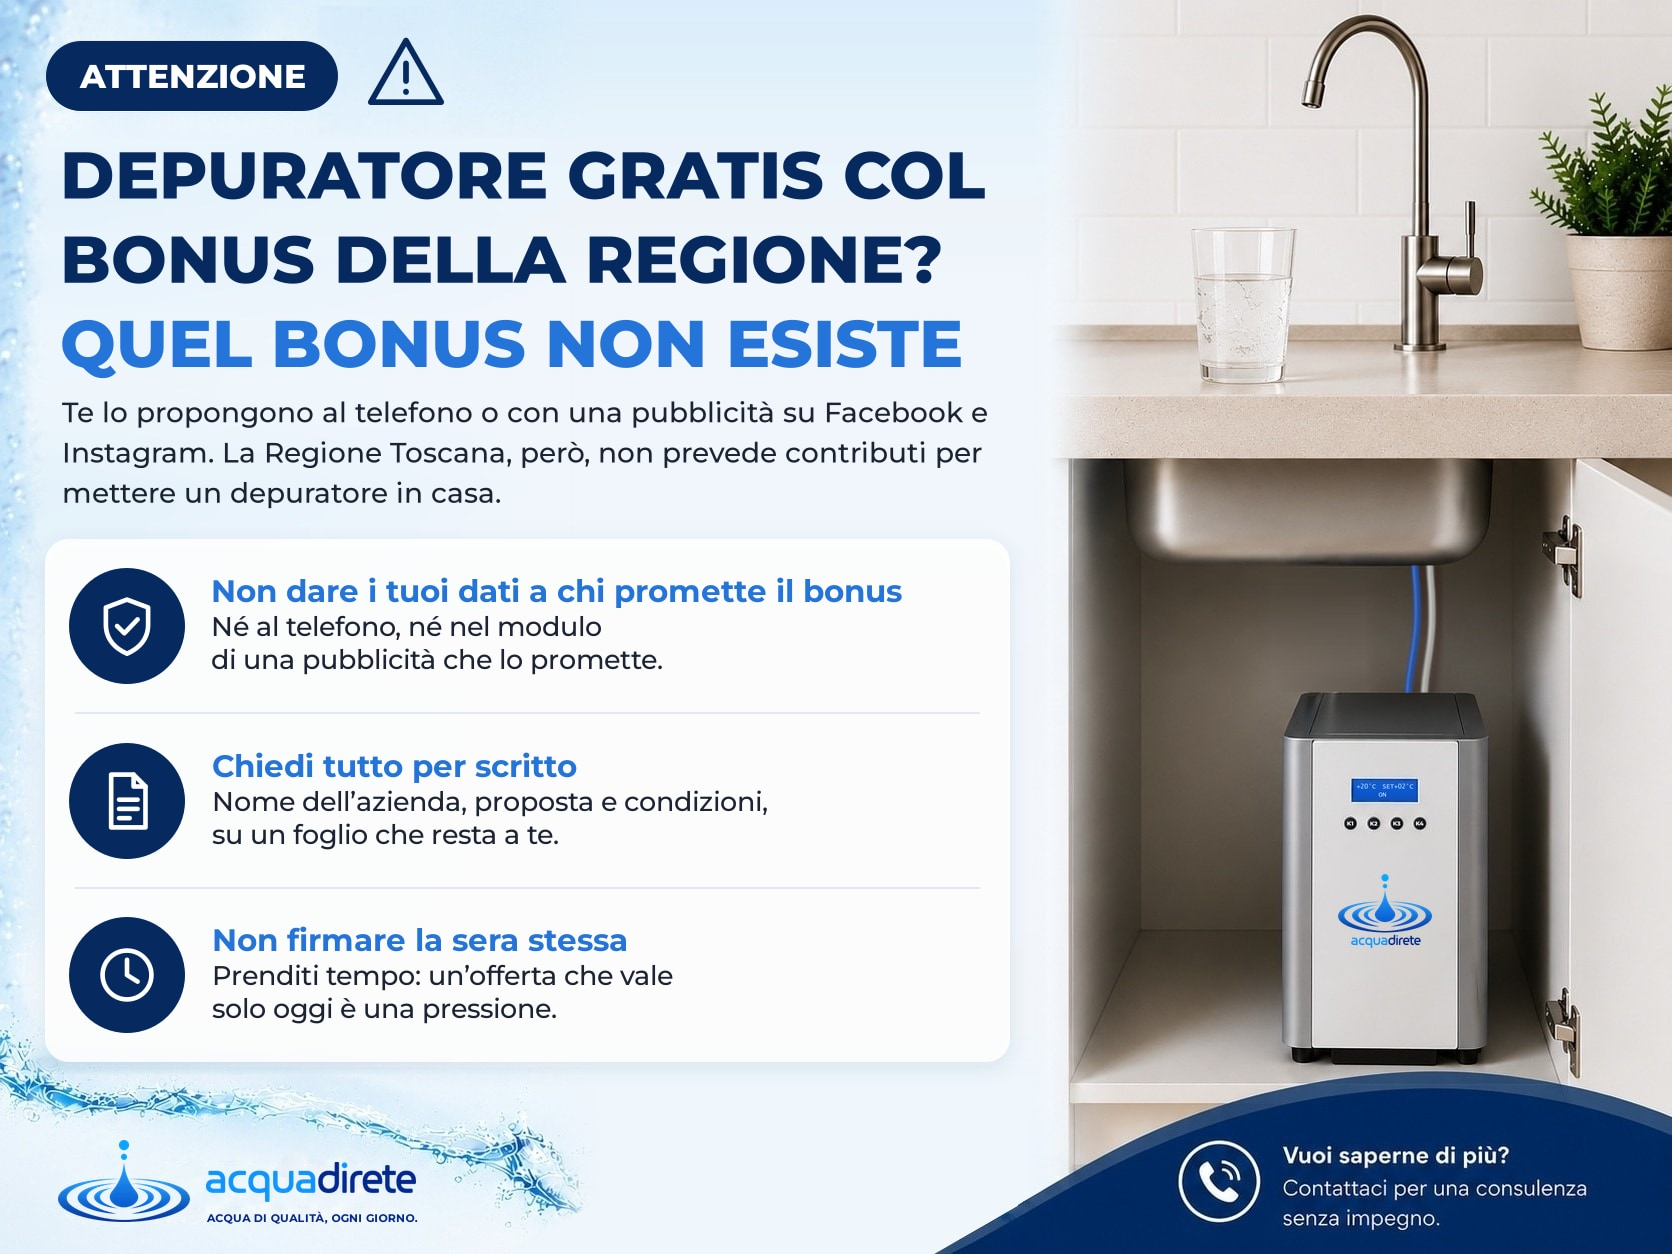
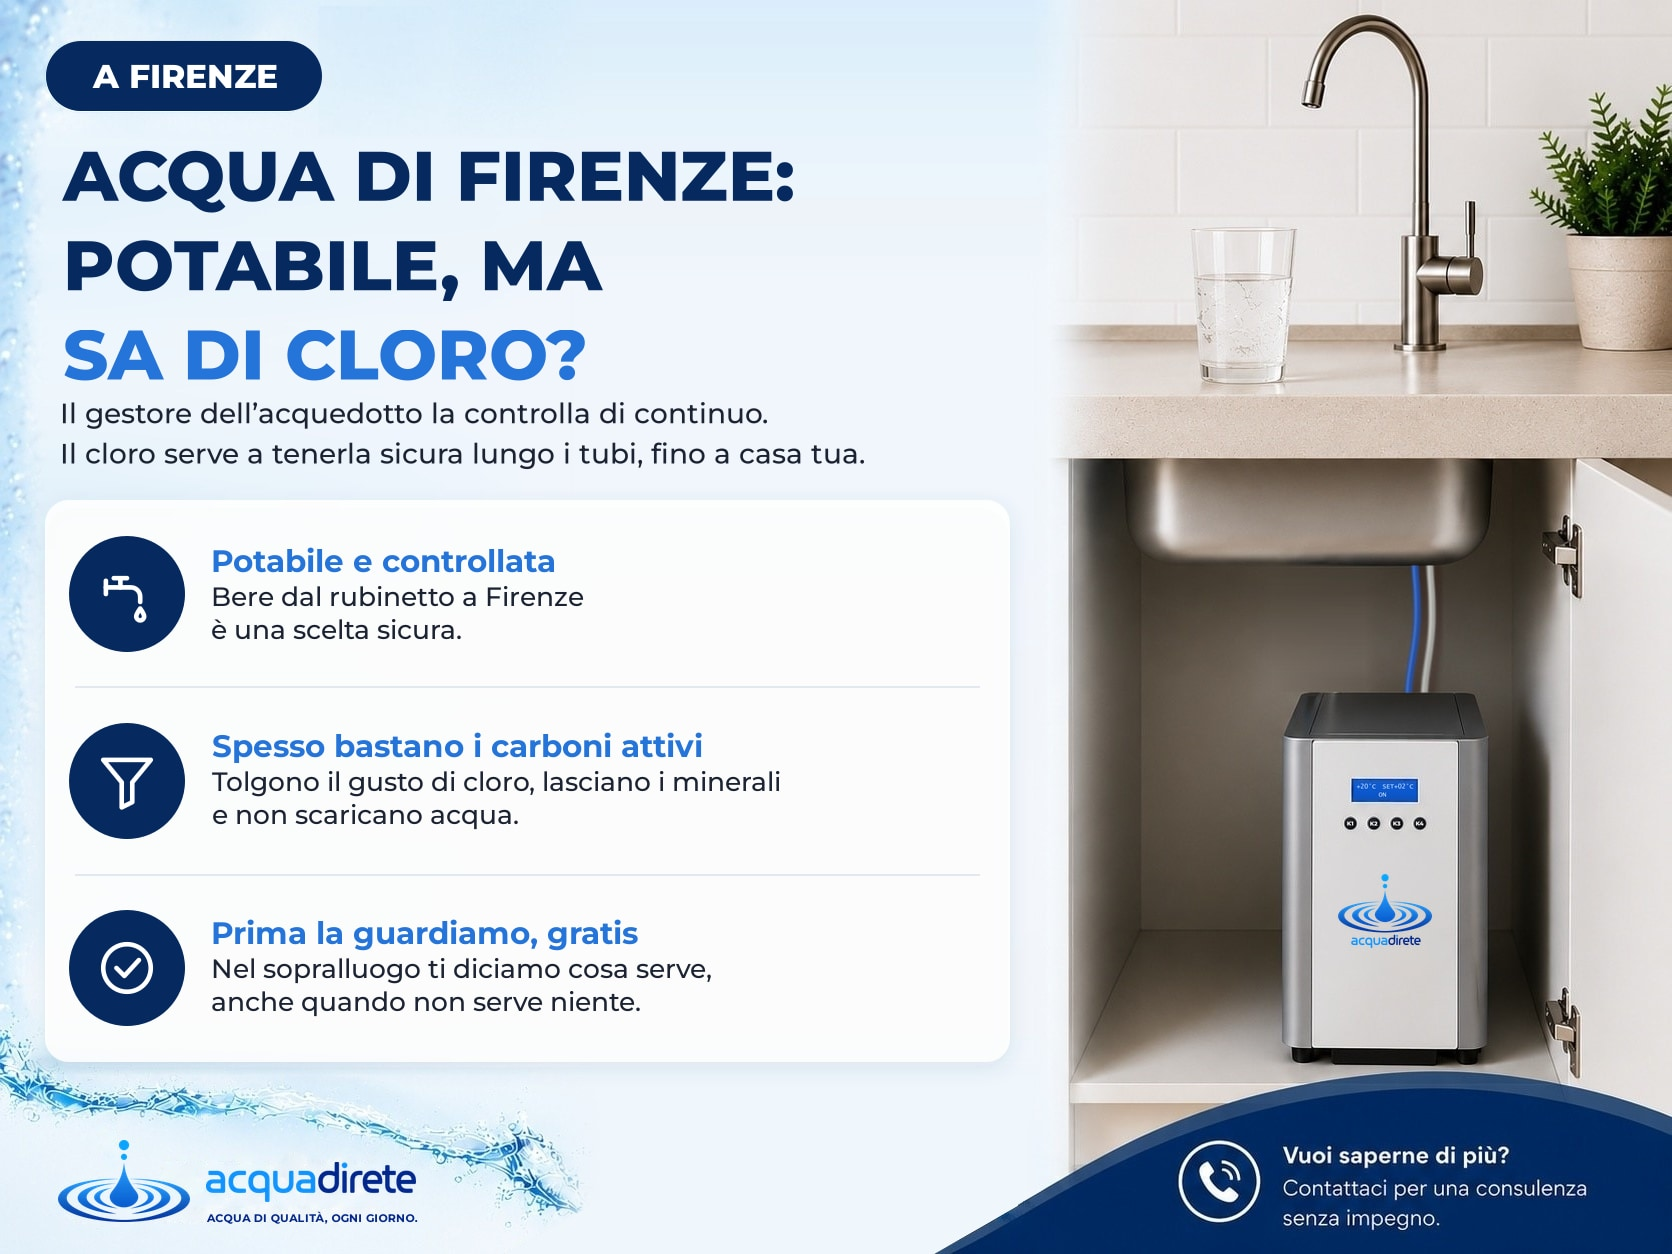
Promemoria scheda Google di ottobre [skip netlify]
Claude-Session: https://claude.ai/code/session_01WBte6yhYNemrFNCG6rHF3A

diff --git a/agenti/promemoria/google-business.md b/agenti/promemoria/google-business.md
@@ -2,30 +2,30 @@ Promemoria mensile - post sulla scheda Google
 
 Perché conta: i post sulla scheda aiutano a comparire su Google Maps e nelle ricerche come "depuratore acqua firenze".
 
-Idea 1 - Il "bonus della Regione" per il depuratore non esiste
-Testo: Ti hanno chiamato, o hai visto una pubblicità su Facebook o Instagram, che ti offre un depuratore gratis col bonus della Regione? Quel bonus non esiste: la Regione Toscana non prevede contributi per mettere un depuratore in casa. Non dare i tuoi dati al telefono né nel modulo di una pubblicità che promette quel bonus, chiedi tutto per scritto e non firmare la sera stessa. Nel nostro articolo ti spieghiamo com'è fatta la proposta e cosa fare.
-Pulsante: "Scopri di più" con il link https://www.acquadirete.it/blog/truffa-bonus-regione-depuratore/
-Foto: un telefono appoggiato sul tavolo della cucina, schermo spento. Niente schermate di pubblicità vere e niente marchi.
+Idea 1 - L'acqua di Firenze è potabile, ma sa di cloro?
+Testo: L'acqua del rubinetto a Firenze è potabile: il gestore dell'acquedotto la controlla di continuo. Se non ti piace, quasi sempre è per il sapore di cloro, che serve a tenerla sicura lungo i tubi fino a casa tua. Quando il fastidio è solo quello, spesso bastano i carboni attivi: tolgono il gusto di cloro, lasciano i minerali e non scaricano acqua. Per capire cosa serve davvero alla tua, passiamo a dare un'occhiata: il sopralluogo è gratuito.
+Pulsante: "Scopri di più" con il link https://www.acquadirete.it/depuratore-carboni-attivi-firenze/
+Immagine: te la mando qui sotto, già pronta.
 
-Idea 2 - Il calcare nel bollitore e la durezza dell'acqua a Firenze
-Testo: Con il freddo tornano tisane e minestre, e l'alone bianco su pentole e bollitore si nota di più: è il calcare dell'acqua di casa. A Firenze l'acqua del rubinetto è potabile e controllata, ma la durezza cambia da zona a zona, quindi l'unico modo per sapere com'è la tua è guardarla al tuo rubinetto. Lo facciamo noi, gratis, durante il sopralluogo, e ti diciamo se un depuratore ha senso, anche quando la risposta è che la tua acqua va già bene così.
-Pulsante: "Scopri di più" con il link https://www.acquadirete.it/blog/acqua-rubinetto-firenze-si-puo-bere/
-Foto: un bollitore o una pentola sul piano di una cucina vera, pulita e in ordine. Senza persone.
+Idea 2 - D'inverno, basta casse d'acqua su per le scale
+Testo: Con la pioggia e il freddo, caricare le casse d'acqua in macchina e portarle su per le scale pesa ancora di più. Con un depuratore, a Firenze e dintorni l'acqua buona da bere esce dal rubinetto di casa, anche fredda o frizzante se la vuoi. Prima veniamo a vedere la tua acqua, gratis; poi ti lasciamo un preventivo gratuito e senza impegno, che vale 3 mesi. Gli impianti hanno 10 anni di garanzia, esclusi i consumabili.
+Pulsante: "Scopri di più" con il link https://www.acquadirete.it/
+Immagine: te la mando qui sotto, già pronta.
 
-Idea 3 - A Prato, un rubinetto solo per tutta l'acqua
-Testo: A Prato e dintorni installiamo il depuratore con un miscelatore multivia a 3, 4 o 5 vie, che prende il posto del rubinetto che hai già usando il suo foro: spesso così non serve forare il piano, e in cucina resta un rubinetto solo invece di due. Nella versione a 5 vie escono l'acqua calda e fredda di casa, la depurata a temperatura ambiente, la depurata fredda e la frizzante. Il sopralluogo è gratuito.
-Pulsante: "Scopri di più" con il link https://www.acquadirete.it/depuratore-acqua-prato/
-Foto: un miscelatore multivia montato su un lavello, con il piano sgombro. Attenzione ai riflessi: nel marmo o nell'acciaio non deve vedersi nessuno.
+Idea 3 - Chi c'è dietro Acquadirete
+Testo: Acquadirete siamo noi due: Stefano, che ha aperto l'attività nel 2005, e suo figlio Matteo. Dalla nostra officina di Montespertoli installiamo e seguiamo depuratori d'acqua tra Firenze, Prato e Pistoia. Niente agenti né call center: sopralluoghi, installazioni e manutenzioni li facciamo noi, e quando chiami rispondiamo noi. Sulla nuova pagina Chi siamo trovi la nostra storia e come lavoriamo.
+Pulsante: "Scopri di più" con il link https://www.acquadirete.it/chi-siamo/
+Immagine: te la mando qui sotto, già pronta. Se preferisci, qui sta bene anche la vostra foto in officina, quella della pagina Chi siamo.
 
-Come si pubblica: dal profilo Google dell'attività, tasto "Aggiungi aggiornamento". Incolla il testo, aggiungi la foto e, se vuoi, il pulsante "Scopri di più" col link indicato. Uno alla volta va benissimo, per esempio uno a settimana.
+Come si pubblica: dal profilo Google dell'attività, tasto "Aggiungi aggiornamento". Incolla il testo, aggiungi l'immagine e, se vuoi, il pulsante "Scopri di più" col link indicato. Uno alla volta va benissimo, per esempio uno a settimana.
 
 Cosa ho scelto e perché:
-- Idea 1: l'articolo sul finto bonus è uscito il 5 ottobre, ed è la novità del mese. Su Google "bonus toscana 2026" (8 volte nell'ultimo mese) e "depuratore acqua gratis toscana" (7) mostrano già quell'articolo nei primi posti: il post porta lì chi riceve quella telefonata.
-- Idea 2: nasce dalla ricerca "durezza acqua firenze": 11 volte in un mese, ma il nostro articolo sull'acqua di Firenze esce solo verso il 18° posto e nessuno clicca. Il post usa le stesse parole, calcare e durezza, ed è il tema della stagione fredda.
-- Idea 3: nasce da "depuratori acqua prato" (16 volte) e "depuratore acqua prato" (11): zero clic, il sito esce fra il 13° e il 23° posto. Un post con la parola Prato aiuta la scheda proprio lì.
+- Idea 1: nasce dalle ricerche sull'acqua potabile di Firenze ("acqua firenze potabile", "acqua potabile firenze", "l'acqua di Firenze è potabile" e simili): 214 volte in un mese, la domanda più cercata in zona. Il post usa le stesse parole e porta alla pagina dei carboni attivi, che è la risposta a chi ha solo il fastidio del cloro. Il calcare l'avevamo già usato nel promemoria del 12 ottobre: qui si parla solo di cloro.
+- Idea 2: nasce da "depuratori acqua firenze" (45 volte) e "depuratore acqua firenze" (20): nessun clic, il sito esce verso l'11°-14° posto. Il link va alla pagina principale perché è quella scelta per vincere su quella ricerca. Le casse d'acqua sono il tema della stagione fredda.
+- Idea 3: la pagina Chi siamo è la novità del mese (uscita il 14 ottobre). Dice chi c'è dietro la scheda, ed è quello che un cliente vuole sapere prima di farci entrare in casa.
 
-Cosa ho scartato: un post sulla manutenzione prima dell'inverno, perché era già nel promemoria di settembre; idem l'acqua ferma dopo le vacanze e la differenza fra la tua acqua e quella del vicino.
+Cosa ho scartato: un post per Pistoia, perché le ricerche con Pistoia sono pochissime (3 in un mese); il riassunto di un articolo nuovo del blog, perché a ottobre l'unico nuovo è quello sul finto bonus, già nel promemoria del 12; le idee già usate a settembre e il 12 ottobre (acqua ferma dopo le vacanze, il vicino con l'acqua diversa, controllo prima dell'inverno, calcare a Firenze, multivia a Prato).
 
-Di cosa non sono sicuro: nell'idea 2 il "guardarla al tuo rubinetto" resta generico apposta. Se durante il sopralluogo misurate proprio la durezza, si può scrivere "misuriamo la durezza della tua acqua". Per l'idea 1 la frase sulla Regione è la stessa dell'articolo già approvato.
+Di cosa non sono sicuro: nell'idea 3 "niente agenti né call center" e "quando chiami rispondiamo noi" li ho presi dalla pagina Chi siamo, non dai fatti che mi hai confermato tu: se non sono giusti, vanno tolti anche da lì. Nell'idea 1 "spesso bastano i carboni attivi" è la stessa frase delle pagine del sito, ma quale impianto serve si decide solo dopo il sopralluogo, e il post lo dice.
 
-Da dove vengono queste idee: dalle ricerche su Google dell'ultimo mese che contengono Firenze, Prato o la Toscana, dall'articolo nuovo del blog di ottobre e dai fatti già confermati da te. Sulla durezza ho letto la Carta dell'acqua di Publiacqua: per Firenze indica un valore medio da "durezza media", per questo il post non dice "acqua molto dura". Le schede Google dei concorrenti non sono riuscito a vederle: la ricerca sul web mostra elenchi e impianti dell'acquedotto, non i loro post.
+Da dove vengono queste idee: dalle ricerche su Google dell'ultimo mese che contengono Firenze, dalla pagina nuova del sito e dai fatti già confermati da te. Le schede Google dei concorrenti non sono riuscito a vederle: la ricerca sul web mostra elenchi e impianti dell'acquedotto, non i loro post.
